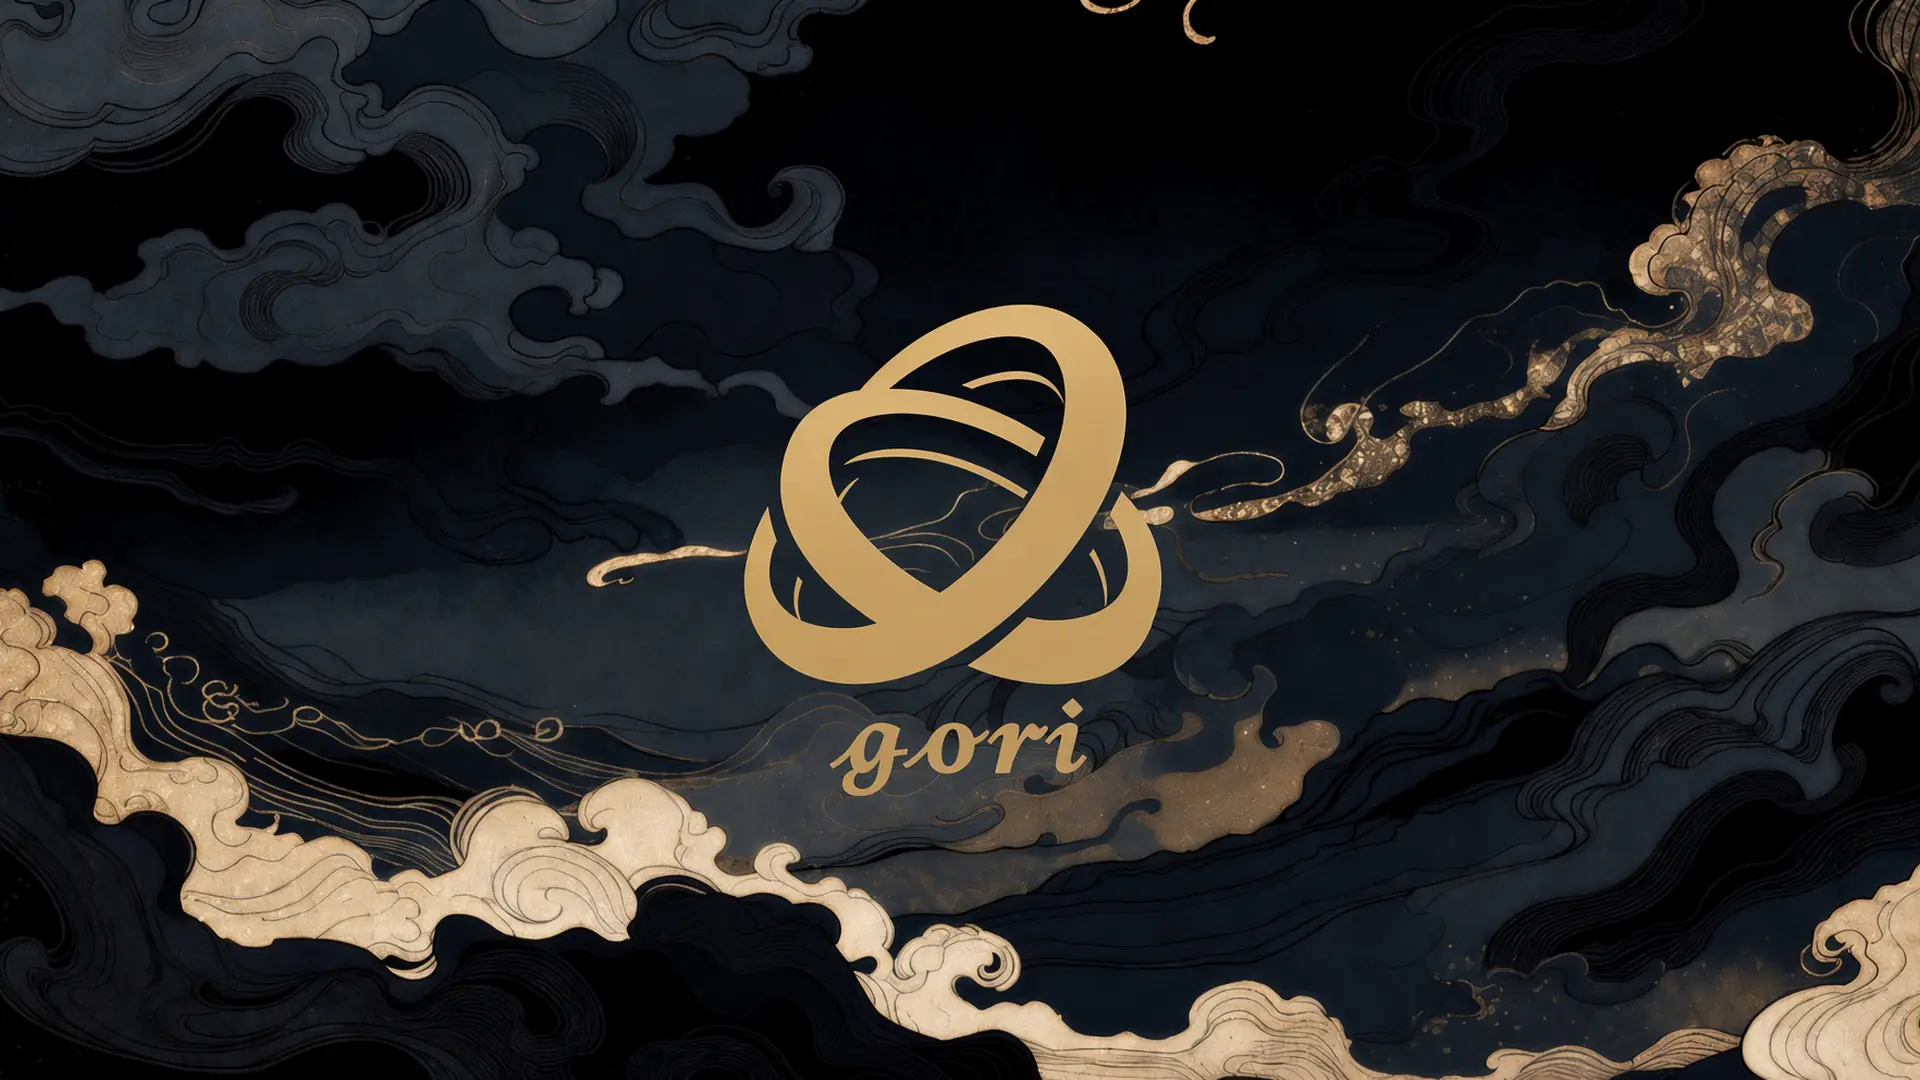
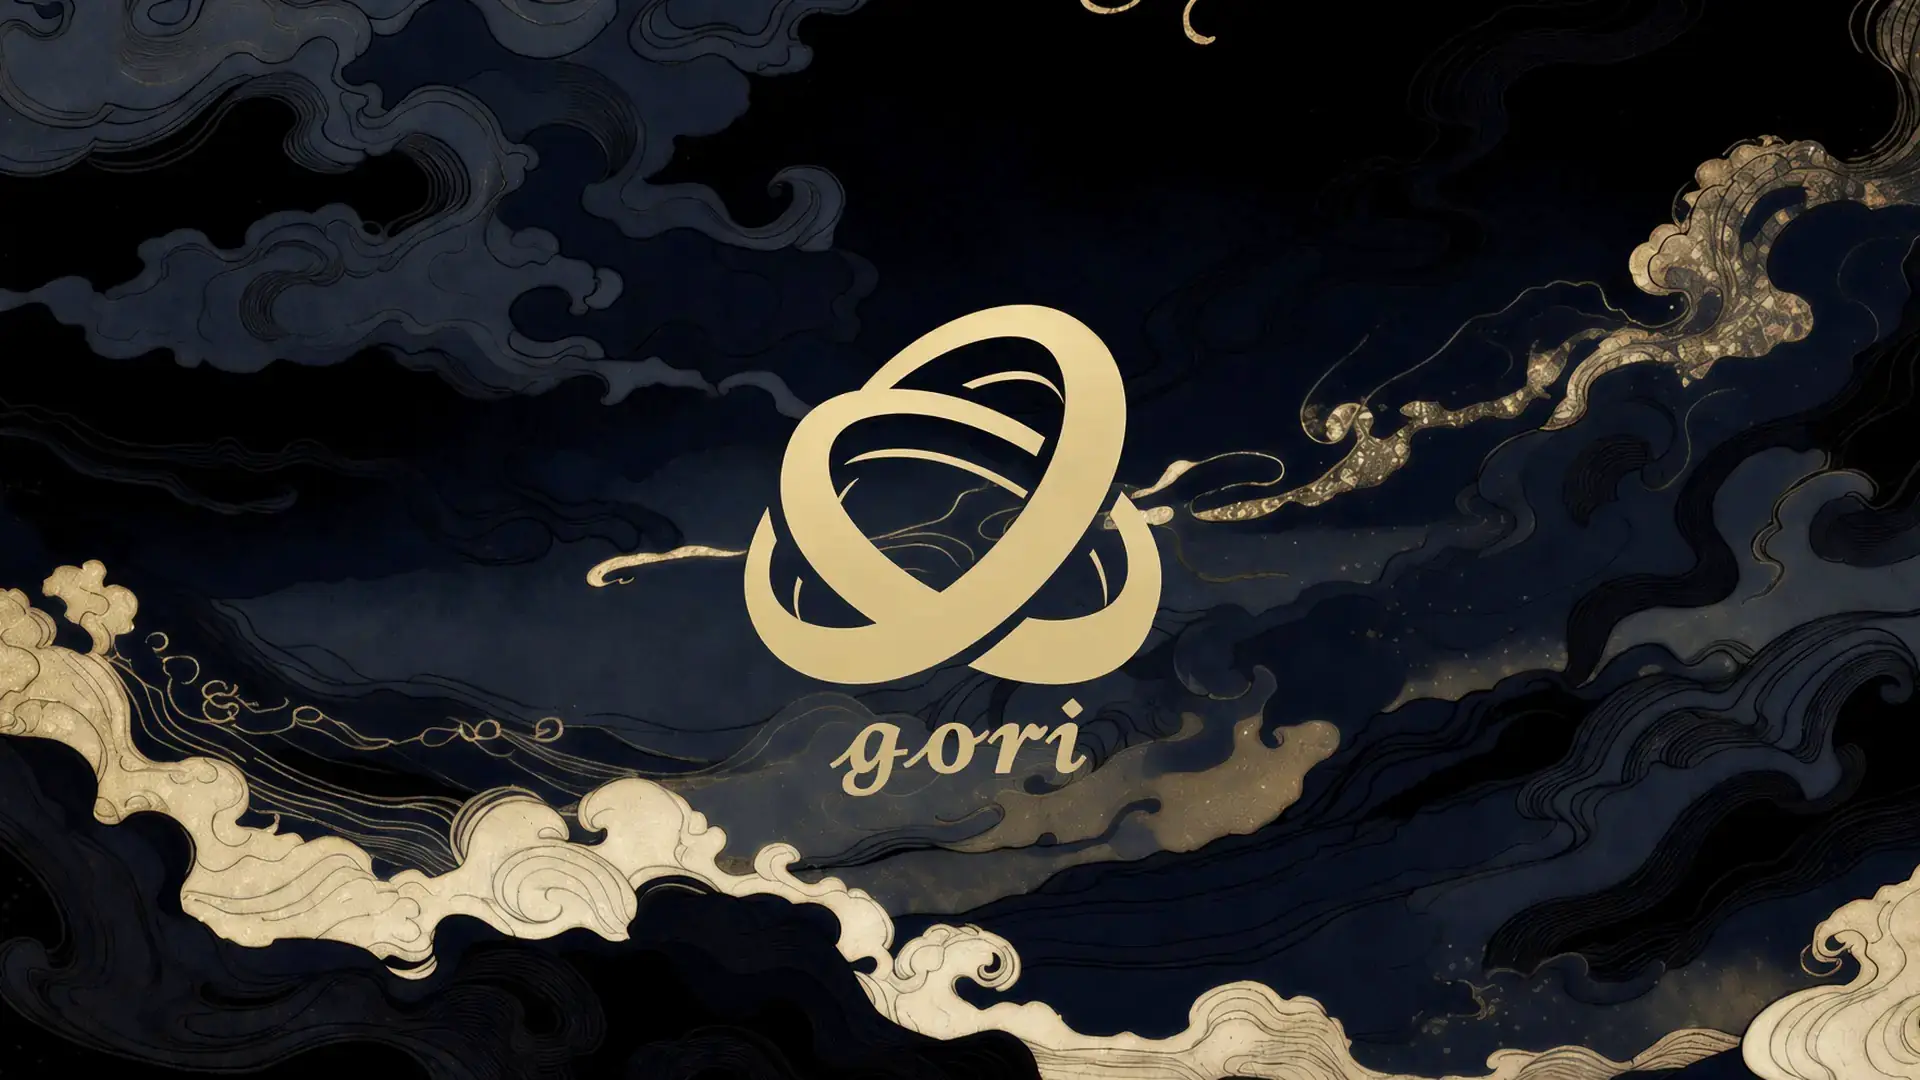
docs: regrade both wallpapers to the brand palette (#1338)
The marked wallpaper's logo was painted in #c7a065, more saturated and
more orange than the mark's #d9c28b, and the clouds in both cuts sat at a
slate teal (hue 210) off the palette's cloud indigo. Both are regraded
(clouds toward 222, gold leaf toward 41), and the painted mark and
wordmark are recoloured to the brand gold.

Changed region(s): [[0.375, 0.275, 0.625, 0.7333]]

diff --git a/CHANGELOG.md b/CHANGELOG.md
@@ -9,7 +9,7 @@
 - Discover: `--http2` reuses one connection per worker instead of dialling per request and no longer sends a `connection: close` header that makes an h2 request malformed; a large wordlist no longer materializes every probe up front, and Fuzzer redirect hops reuse the keep-alive connection (#1337)
 - CLI/MCP: redacting a large non-ASCII body takes milliseconds instead of seconds, `get_response_body_chunk` stops re-decoding a compressed body for every page, and headless Authorize runs keep response heads but not bodies of finished targets (#1337)
 - Docs: the landing walks from capture to issue beside its captures as you scroll, the Guide and Reference indexes become tiles with a TUI capture per tool, and pages gain gold accents on section rules and a gliding table-of-contents marker, in light and dark.
-- Docs: both Brand Kit wallpapers (with and without the mark) now come at the 1920 × 1080 desktop size, and the landing hero is painted from the plain one.
+- Docs: both Brand Kit wallpapers (with and without the mark) now come at the 1920 × 1080 desktop size, the landing hero is painted from the plain one, and both are regraded to the palette: indigo clouds, and the marked cut's logo in the brand gold (#d9c28b).
 - Guided tour: `gori tutorial` teaches the space menu before the palette, with its second cards (`>` **Send flow to…**, `esc` back a level) and the palette search that lists a tab's own actions with the key or menu path that reaches each, all read from your keymap; the docs gain a **Space Menu & Palette** guide with a five-minute exercise (#1333)
 - Probe: a headless active scan (`gori run probe --active`, MCP `probe_scan`) probes each request surface once however many times it was captured, instead of re-probing every repeat and spending its active budget on it (#1332)
 - Probe: the live active scanner reuses one keep-alive connection across a flow's rules rather than opening a fresh one per rule (#1332)
